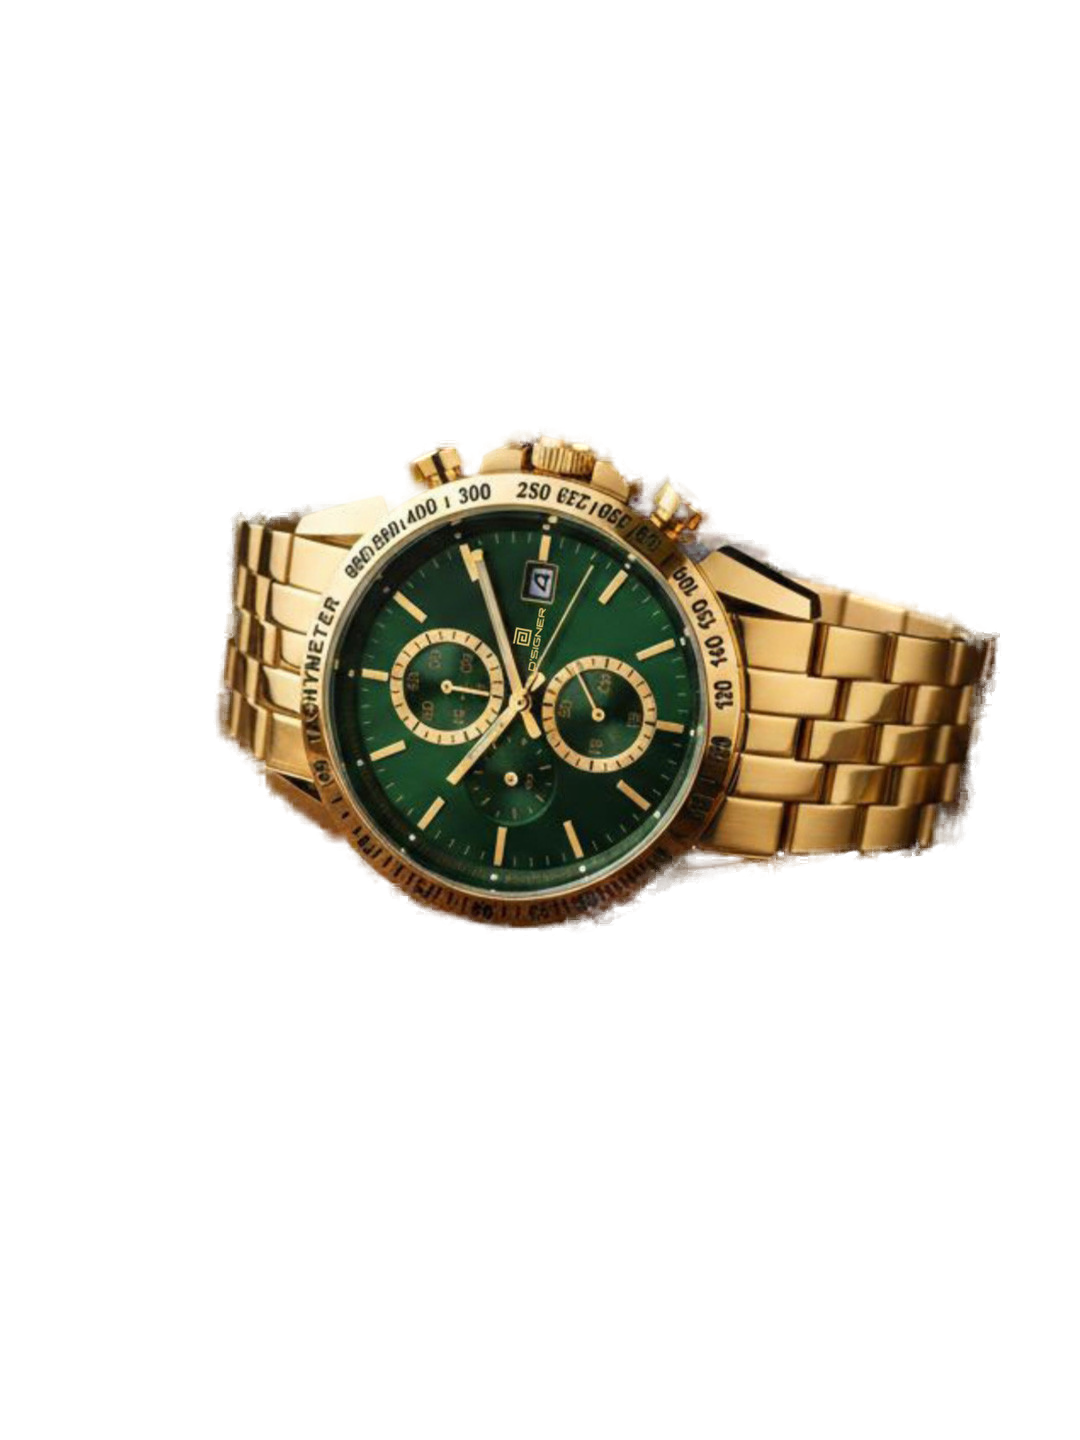
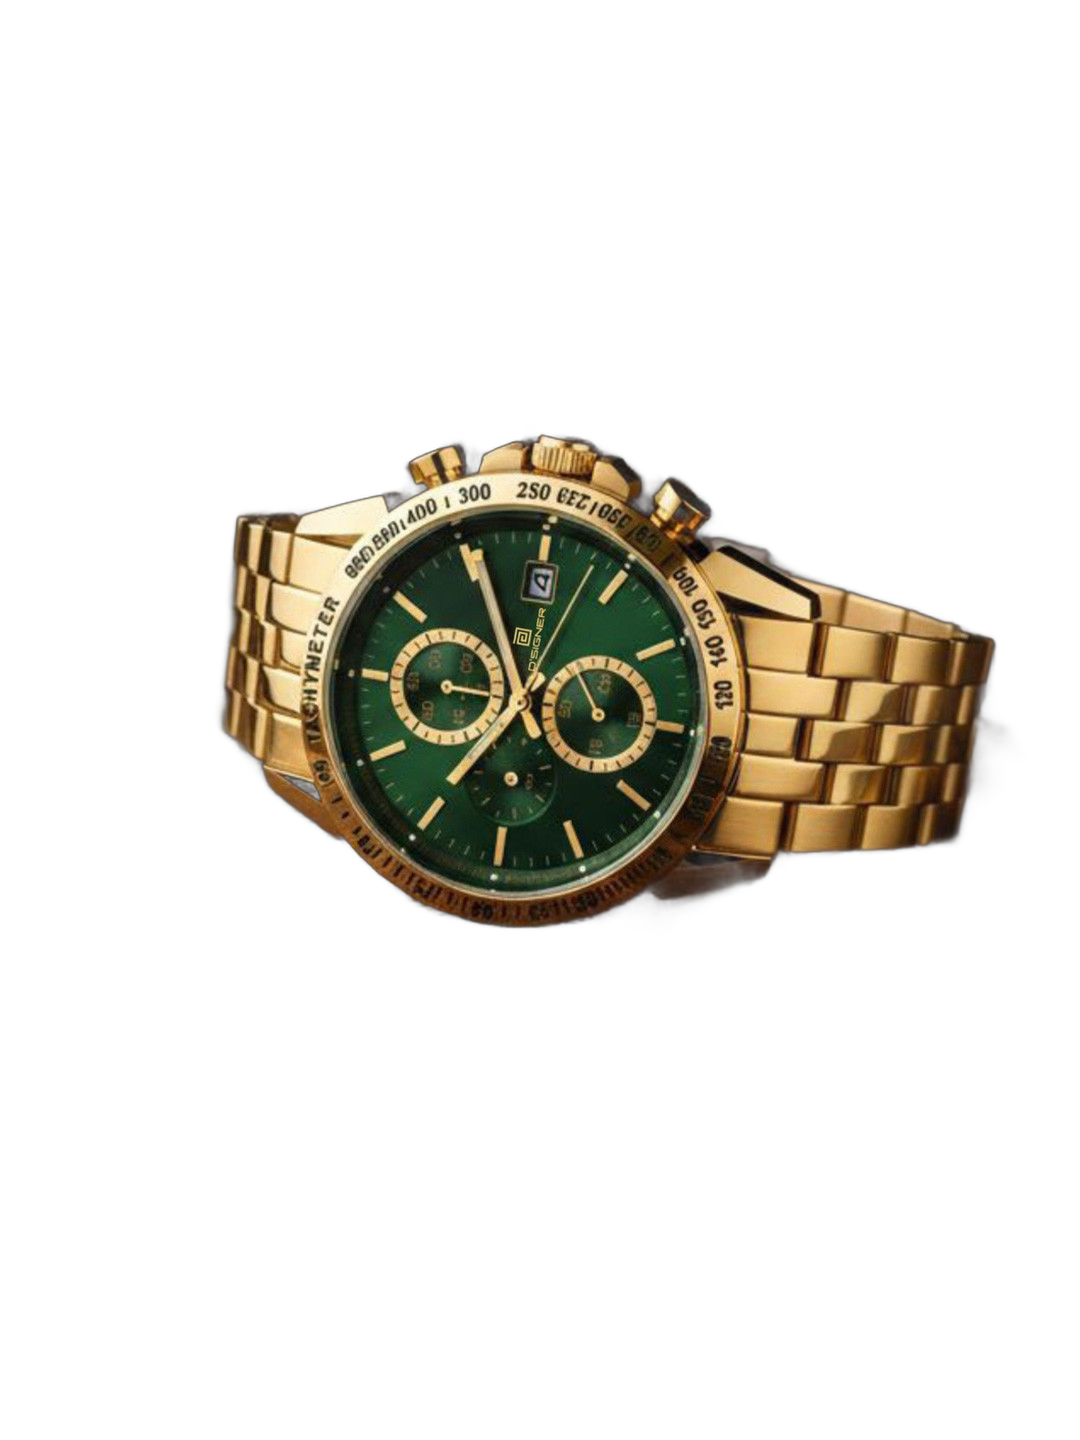
fix(images): isolate transparent backgrounds and restore full watch crops for all 34 target models

diff --git a/scripts/diagnose_all_34_models.py b/scripts/diagnose_all_34_models.py
@@ -1,0 +1,134 @@
+import json
+import os
+from PIL import Image
+import numpy as np
+
+targets = [
+    ("Breeze 794RTM.9L", ["794RTM.9L"]),
+    ("Breeze 794SM.2L", ["794SM.2L"]),
+    ("Breeze 794SMSL", ["794SM.5L", "794SMSL"]),
+    ("Breeze 794", ["794RTM.16L", "794RTM.2L", "794RTM.5L"]),
+    ("Breeze 788", ["788RGM.3L", "788"]),
+    ("Vortex 851", ["851GNM.3G", "851RGM.16G", "851RGM.2G", "851SM.5G"]),
+    ("Pulse 823BRNL.9G", ["823BRNL.9G"]),
+    ("Tidemark 876RTM.9G", ["876RTM.9G"]),
+    ("Tactix 200SM.5G", ["200SM.5G"]),
+    ("Tactix 865", ["865"]),
+    ("Tactix 200", ["200SM.2G", "200SM.3G", "200SM.5G", "200RTM.2G", "200RTM.3G", "200GM.16G"]),
+    ("Glimmer 860TM.12L", ["860TM.12L", "860TM.12.L"]),
+    ("Glimmer 860TM.16L", ["860TM.16L", "860TM.16.L"]),
+    ("Tactix 200RTM.2G", ["200RTM.2G"]),
+    ("Tactix 200RTM.3G", ["200RTM.3G"]),
+    ("Tactix 200GM.16G", ["200GM.16G"]),
+    ("Tactix 875RGGNM.3G", ["875RGGNM.3G"]),
+    ("Tactix 804", ["804BM.3G", "804RGM.3G", "804RTM.5G", "804TM.16G"]),
+    ("Tactix 875RGBLM.5G", ["875RGBLM.5G"]),
+    ("Tactix 200SM.2G", ["200SM.2G"]),
+    ("Tactix 200SM.3G", ["200SM.3G"]),
+    ("Hallmark 862", ["862GM.16L", "862"]),
+    ("Hallmark 912RGM.6L", ["912RGM.6L"]),
+    ("Hallmark 912RTM.5L", ["912RTM.5L"]),
+    ("Hallmark 777", ["777RTM.6.L", "777"]),
+    ("Grandeur 980GFS.16", ["980GFS.16"]),
+    ("Hallmark 912TM.6L", ["912TM.6L"]),
+    ("Quest 802", ["802GNM.8G", "802GNM.8.G", "802"]),
+    ("Duetto 521", ["521GM.16G", "521"]),
+    ("Daymark 867", ["867GM.16G", "867GM.2G", "867GM.5G", "867GM.9G", "867RGM.16G", "867RGM.2G", "867RGM.3G", "867SM.2G", "867SM.4G", "867SM.5G", "867SM.8G"]),
+    ("Daymark 809", ["809GM.2G", "809GM.4G", "809GNM.16G", "809GNM.3G", "809RGM.16G", "809RGM.2G", "809RTM.16G", "809RTM.2G", "809TM.2G", "809TM.4G"]),
+    ("Daymark 829", ["829RGM.9G"]),
+    ("Daymark 821", ["821GM.1", "821"]),
+    ("Bondline 820", ["820GFS.16G", "820GNFS.16G", "820GNFS.5G", "820GNFS.8G", "820RGFS.2G"]),
+]
+
+with open('src/data/dsigner_master_inventory.json', 'r', encoding='utf-8') as f:
+    inv = json.load(f)
+with open('src/data/transparent_image_map.json', 'r', encoding='utf-8') as f:
+    tmap = json.load(f)
+
+all_items = inv.get('men', []) + inv.get('women', [])
+
+def check_file(rel_path):
+    resolved = tmap.get(rel_path, rel_path)
+    full = 'public' + resolved if resolved.startswith('/') else 'public/' + resolved
+    if not os.path.exists(full):
+        return {'status': 'NOT_FOUND', 'path': full}
+    im = Image.open(full)
+    if im.mode != 'RGBA':
+        return {'status': 'OPAQUE', 'path': full, 'size': im.size}
+    arr = np.array(im)
+    corners = [int(arr[0,0,3]), int(arr[0,-1,3]), int(arr[-1,0,3]), int(arr[-1,-1,3])]
+    bbox = im.getchannel('A').getbbox()
+    height = (bbox[3] - bbox[1]) if bbox else 0
+    height_ratio = height / im.size[1] if im.size[1] else 0
+    is_transparent = all(c == 0 for c in corners) and (arr[:,:,3] == 0).mean() > 0.1
+    return {
+        'status': 'TRANSPARENT' if is_transparent else 'OPAQUE_ALPHA',
+        'path': full,
+        'size': im.size,
+        'bbox': bbox,
+        'height': height,
+        'height_ratio': height_ratio,
+        'corners': corners,
+        'trans_ratio': float((arr[:,:,3] == 0).mean())
+    }
+
+results = []
+
+for name, skus in targets:
+    matched_items = []
+    for s in skus:
+        for x in all_items:
+            num = str(x.get('modelNo', ''))
+            if s.lower() in num.lower() and x not in matched_items:
+                matched_items.append(x)
+    
+    if not matched_items:
+        results.append({
+            'target': name,
+            'status': 'NO_INVENTORY_MATCH',
+            'skus': skus
+        })
+        continue
+        
+    for item in matched_items:
+        model_no = item.get('modelNo')
+        prim = item.get('primaryImage')
+        gallery = item.get('gallery', [])
+        
+        prim_info = check_file(prim)
+        gallery_info = [check_file(g) for g in gallery]
+        
+        results.append({
+            'target': name,
+            'modelNo': model_no,
+            'primary': prim,
+            'prim_info': prim_info,
+            'gallery': gallery,
+            'gallery_info': gallery_info
+        })
+
+print(f"Audited {len(results)} model variations across the 34 targets.")
+
+issues = []
+for r in results:
+    t = r.get('target')
+    m = r.get('modelNo', 'N/A')
+    if r.get('status') == 'NO_INVENTORY_MATCH':
+        issues.append(f"[{t}] NOT IN MASTER INVENTORY (Check catalog / raw assets)")
+        continue
+    
+    p_info = r['prim_info']
+    if p_info['status'] != 'TRANSPARENT':
+        issues.append(f"[{t} / {m}] Primary is {p_info['status']} ({r['primary']})")
+    elif p_info['height_ratio'] < 0.65:
+        issues.append(f"[{t} / {m}] Primary is WRONGLY CROPPED: height_ratio={p_info['height_ratio']:.1%} (bbox={p_info['bbox']}, size={p_info['size']})")
+        
+    for i, g_info in enumerate(r['gallery_info']):
+        if g_info['status'] != 'TRANSPARENT':
+            issues.append(f"[{t} / {m}] Gallery[{i}] is {g_info['status']} ({r['gallery'][i]})")
+        elif g_info['height_ratio'] < 0.65 and i == 0:
+            issues.append(f"[{t} / {m}] Gallery[0] is WRONGLY CROPPED: height_ratio={g_info['height_ratio']:.1%}")
+
+print(f"\nTOTAL ISSUES FOUND: {len(issues)}")
+for iss in issues:
+    print(" ", iss)

diff --git a/scripts/process_all_target_gallery_images.py b/scripts/process_all_target_gallery_images.py
@@ -1,0 +1,98 @@
+import json
+import os
+from PIL import Image
+import numpy as np
+from rembg import remove, new_session
+
+exact_targets = [
+    '794RTM.9L', '794SM.2L', '794SM.5L', '794', '788', '851', '823BRNL.9G', '876RTM.9G',
+    '200SM.5G', '865', '200', '860TM.12L', '860TM.16L', '200RTM.2G', '200RTM.3G', '200GM.16G',
+    '875RGGNM.3G', '804', '875RGBLM.5G', '200SM.2G', '200SM.3G', '862', '912RGM.6L', '912RTM.5L',
+    '777', '980GFS.16', '912TM.6L', '802', '521', '867', '809', '829', '821', '820'
+]
+
+with open('src/data/dsigner_master_inventory.json', 'r', encoding='utf-8') as f:
+    inv = json.load(f)
+with open('src/data/transparent_image_map.json', 'r', encoding='utf-8') as f:
+    tmap = json.load(f)
+
+all_items = inv.get('men', []) + inv.get('women', [])
+
+images_to_process = set()
+
+for x in all_items:
+    num = str(x.get('modelNo', ''))
+    matched = False
+    for t in exact_targets:
+        if t == num or (len(t) >= 4 and t in num):
+            matched = True
+            break
+    if matched:
+        all_imgs = [x.get('primaryImage'), x.get('hoverImage')] + (x.get('gallery') or [])
+        for img in all_imgs:
+            if not img: continue
+            res = tmap.get(img, img)
+            full = 'public' + res if res.startswith('/') else 'public/' + res
+            if os.path.exists(full):
+                # check if it's opaque
+                im = Image.open(full)
+                is_opaque = False
+                if im.mode != 'RGBA':
+                    is_opaque = True
+                else:
+                    arr = np.array(im)
+                    if arr[0,0,3] > 0 or arr[0,-1,3] > 0 or arr[-1,0,3] > 0 or arr[-1,-1,3] > 0:
+                        is_opaque = True
+                if is_opaque:
+                    images_to_process.add(img)
+
+print(f"Total unique images needing transparent cutouts: {len(images_to_process)}")
+
+session = new_session("u2net")
+processed = 0
+
+for raw_path in sorted(list(images_to_process)):
+    src_file = 'public' + raw_path if raw_path.startswith('/') else 'public/' + raw_path
+    if not os.path.exists(src_file):
+        print(f"Skipping {src_file} (does not exist)")
+        continue
+        
+    # Determine transparent output path
+    # Replace /new-img/ with /transparent-img/ and extension with .png
+    clean_path = raw_path.replace('\\', '/')
+    if '/new-img/' in clean_path:
+        trans_rel = clean_path.replace('/new-img/', '/transparent-img/')
+    elif clean_path.startswith('/images/'):
+        trans_rel = clean_path.replace('/images/', '/images/transparent-img/')
+    else:
+        trans_rel = '/images/transparent-img/' + clean_path.lstrip('/')
+        
+    # Change extension to .png
+    base, _ = os.path.splitext(trans_rel)
+    trans_rel = base + '.png'
+    
+    dst_file = 'public' + trans_rel if trans_rel.startswith('/') else 'public/' + trans_rel
+    os.makedirs(os.path.dirname(dst_file), exist_ok=True)
+    
+    try:
+        im = Image.open(src_file)
+        out = remove(im, session=session)
+        arr = np.array(out)
+        # Ensure 4 corners are strictly 0
+        arr[0,0,3] = 0
+        arr[0,-1,3] = 0
+        arr[-1,0,3] = 0
+        arr[-1,-1,3] = 0
+        clean_out = Image.fromarray(arr)
+        clean_out.save(dst_file, format="PNG")
+        
+        tmap[raw_path] = trans_rel
+        processed += 1
+        print(f"[{processed}/{len(images_to_process)}] Saved {trans_rel} (corners: 0)")
+    except Exception as e:
+        print(f"Error processing {src_file}: {e}")
+
+with open('src/data/transparent_image_map.json', 'w', encoding='utf-8') as f:
+    json.dump(tmap, f, indent=2)
+
+print(f"Successfully processed {processed} images and updated transparent_image_map.json!")
